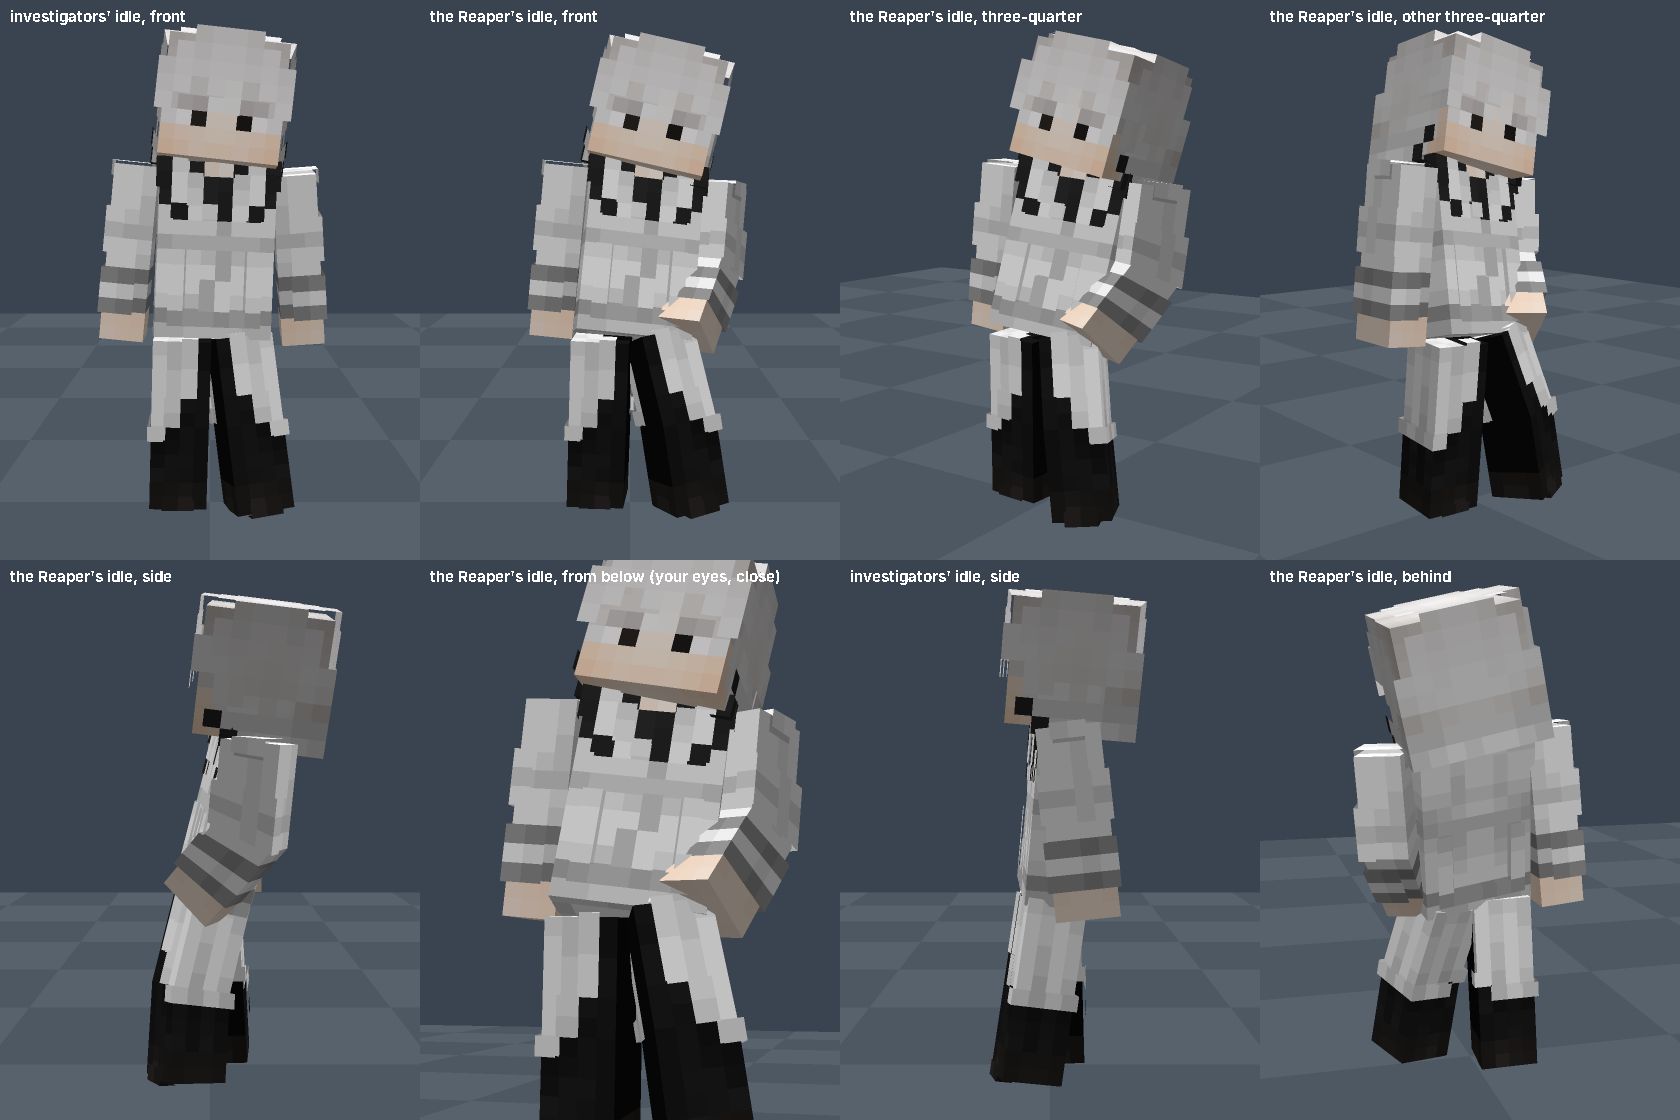
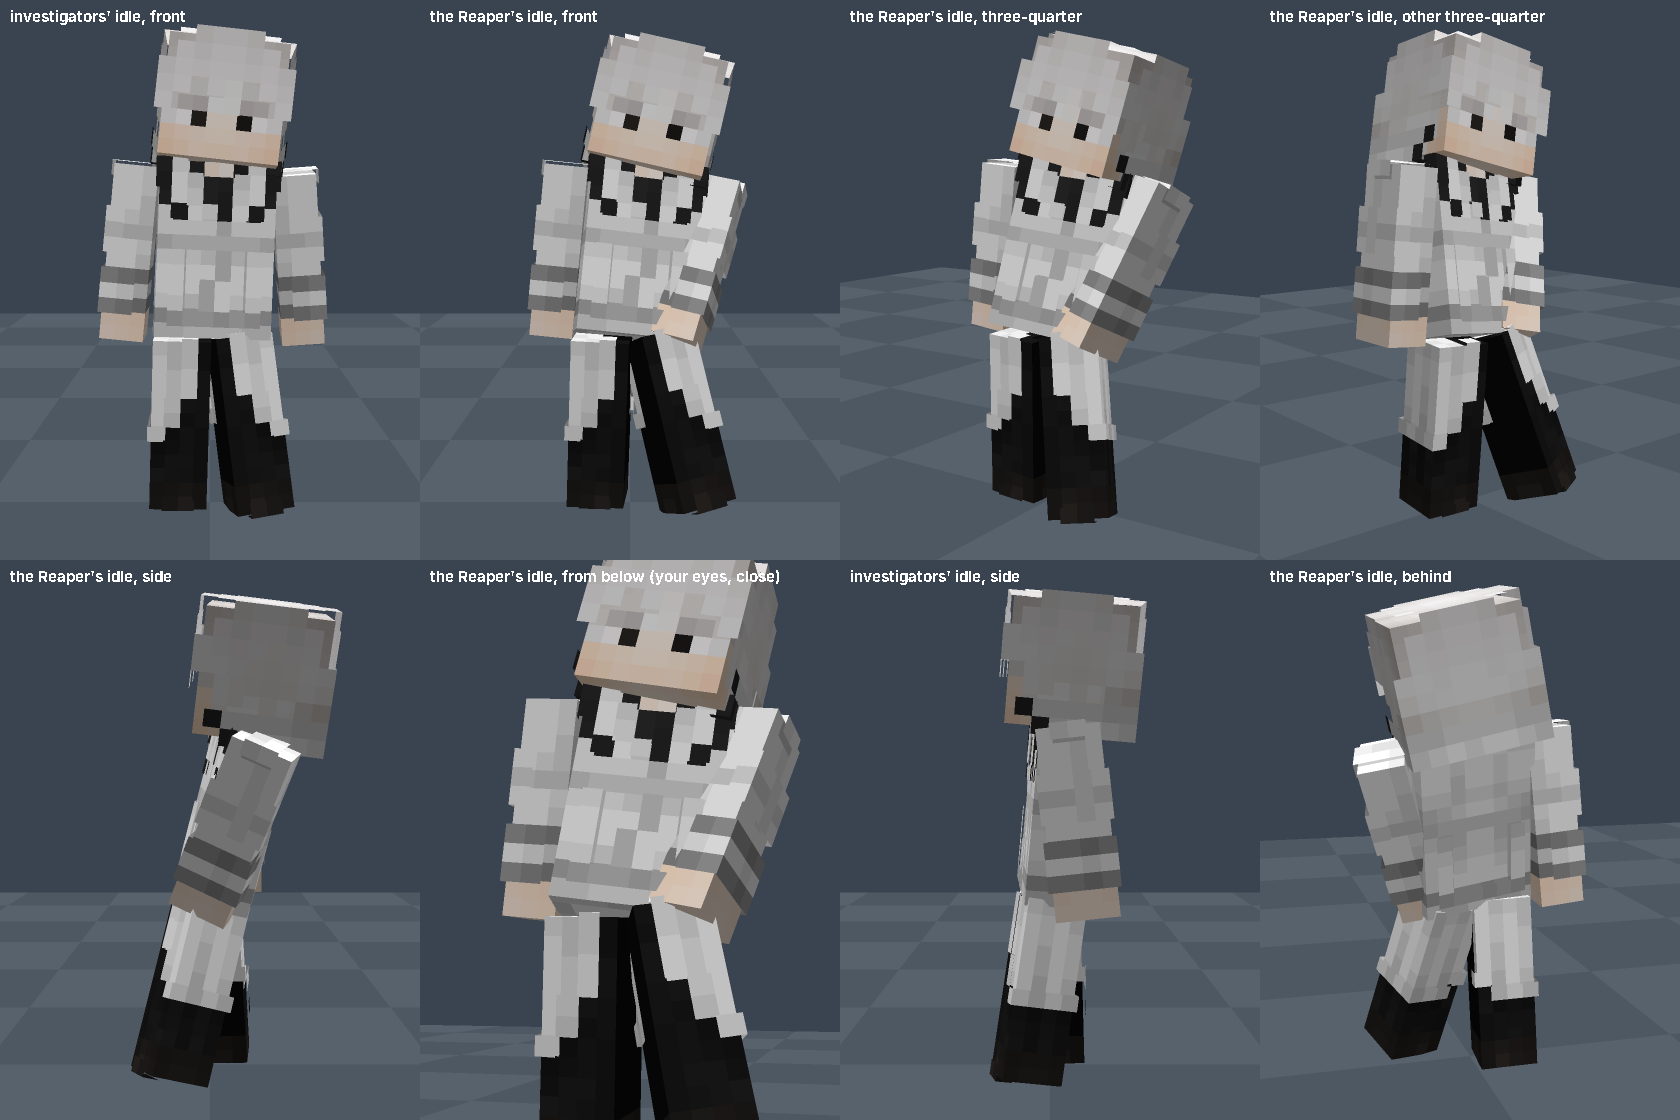
2.0.44: the Reaper's pocket hand on a straight arm
Investigators are drawn on vanilla's player model, which bends no
elbow, so 2.0.43's bent pocket arm would have hung off at an angle in
game. The arm is re-solved straight, in to his hip, the hand sunk in
the pocket; the preview now renders without bends as the game does.

Claude-Session: https://claude.ai/code/session_018kcYHEUs5aWmNhSw3LBkTs

diff --git a/src/main/java/com/hex/kagune/control/client/animation/AgentPose.java b/src/main/java/com/hex/kagune/control/client/animation/AgentPose.java
@@ -385,21 +385,20 @@ public final class AgentPose {
         p.headZ += 0.14F * k;
         p.rightShoulderY += -0.12F * (float)breath * k;
         p.leftShoulderY += -0.12F * (float)breath * k;
-        // The legs: his weight sunk on the right, the left loose, out in front and turned out, its knee soft.
+        // The legs: his weight sunk on the right, the left loose, out in front and turned out.
         p.rightLegX = blend(p.rightLegX, 0.06F, k);
         p.rightLegY = blend(p.rightLegY, 0.08F, k);
         p.rightLegZ = blend(p.rightLegZ, 0.04F, k);
         p.leftLegX = blend(p.leftLegX, -0.26F, k);
         p.leftLegY = blend(p.leftLegY, -0.42F, k);
         p.leftLegZ = blend(p.leftLegZ, -0.13F, k);
-        p.leftKnee = blend(p.leftKnee, 0.2F, k);
         p.legHold = Math.max(p.legHold, k);
-        // The free hand in his pocket (solved through the game's transforms, tools/ArmSolve's way): the elbow out and back, the forearm
-        // in and forward to the front of his hip, the hand sunk in the pocket. Its lean and tip taken out, so it stays there.
-        p.leftArmX = blend(p.leftArmX, -0.058F - p.lean, k);
-        p.leftArmY = blend(p.leftArmY, 0.596F, k);
-        p.leftArmZ = blend(p.leftArmZ, 0.173F - p.side, k);
-        p.leftElbow = blend(p.leftElbow, 0.623F, k);
+        // The free hand in his pocket (solved through the game's transforms, tools/ArmSolve's way, on an investigator's straight arms:
+        // vanilla's player model bends no elbow): the arm in to his hip, its hand sunk in the pocket at its side. Its lean and tip
+        // taken out, so it stays there.
+        p.leftArmX = blend(p.leftArmX, -0.327F - p.lean, k);
+        p.leftArmY = blend(p.leftArmY, 0.392F, k);
+        p.leftArmZ = blend(p.leftArmZ, 0.284F - p.side, k);
         p.leftArmHold = Math.max(p.leftArmHold, k);
     }
 

diff --git a/src/test/java/com/hex/kagune/control/AgentTests.java b/src/test/java/com/hex/kagune/control/AgentTests.java
@@ -485,9 +485,10 @@ public final class AgentTests {
             check(reaper.lean < other.lean - 0.1F && reaper.lean > -0.35F, "he leans back further than any investigator (" + age + ")");
             check(reaper.side > other.side && reaper.twist < other.twist, "his hip cocked, his chest turned open");
             check(reaper.headY == 0.0F && reaper.headX > 0.0F && reaper.headX < -reaper.lean, "no glancing about; his chin a touch up");
-            check(reaper.legHold == 1.0F && reaper.leftArmHold == 1.0F && reaper.leftKnee > 0.0F && reaper.leftLegX < -0.2F,
+            check(reaper.legHold == 1.0F && reaper.leftArmHold == 1.0F && reaper.leftLegX < -0.2F && reaper.leftLegY < -0.3F,
                 "his weight on his right leg, the left loose in front");
-            check(reaper.leftElbow > 0.4F && reaper.leftArmY > 0.3F, "his free hand bent in to his pocket");
+            check(reaper.leftElbow == 0.0F && reaper.leftKnee == 0.0F && reaper.leftArmY > 0.3F && reaper.leftArmZ + reaper.side > 0.2F,
+                "his free arm straight in to his pocket (an investigator's model bends no elbow)");
         }
         check(maxLean - minLean > 0.005F && maxLean - minLean < 0.02F, "a slow breath, hardly moving: " + (maxLean - minLean));
         RigPose none = new RigPose();

diff --git a/patch/KagunePatch.java b/patch/KagunePatch.java
@@ -40,7 +40,7 @@ public final class KagunePatch implements Opcodes {
     private static final String COOLDOWN = "slingshotCooldownUntil";
     /** 3.0.0: the grapple's flight onto the grabbed block. */
     static final String SLINGSHOT = "com/hex/kagune/control/server/RinkakuSlingshot";
-    static final String VERSION = "2.0.43";
+    static final String VERSION = "2.0.44";
     private static final String PLAYER = "net/minecraft/server/level/ServerPlayer";
     private static final String VECTOR = "net/minecraft/world/phys/Vec3";
     // 1.1.0 kagune control expansion hooks

diff --git a/tools/ReaperPreview.java b/tools/ReaperPreview.java
@@ -18,6 +18,7 @@ public final class ReaperPreview {
     public static void main(String[] args) throws Exception {
         PoseRender.skin = ImageIO.read(new File(args[0]));
         PoseRender.slim = true;
+        PoseRender.stiff = true; // an investigator is a mob on vanilla's player model: no elbows or knees bend
         File out = new File(args[1]);
         record Shot(String label, boolean reaper, double yaw, double pitch) {
         }

diff --git a/build.py b/build.py
@@ -24,7 +24,7 @@ import sys
 import zipfile
 
 ROOT = Path(__file__).resolve().parent
-VERSION = "2.0.43"
+VERSION = "2.0.44"
 INPUT = ROOT / "input" / "hexkagune-1.0.0.jar"
 BUILD = Path(os.environ.get("HEXKAGUNE_BUILD_DIR", ROOT / "build"))
 OUTPUT = BUILD / f"hexkagune-{VERSION}.jar"

diff --git a/README.md b/README.md
@@ -9,6 +9,10 @@ Mixins), and every existing kagune system (forms, mutations, rendering, grapple/
 autonomy, projectile deflection, particles, sounds, saves, networking) keeps working as before.
 
 
+## 2.0.44 (HexGhoul): the Reaper's pocket hand on a straight arm (testing)
+
+See `.github/release-notes-2.0.44.md`. Fix for 2.0.43: the White Reaper's free hand now actually goes into his pocket in game. Investigators are drawn on vanilla's player model, which doesn't bend elbows or knees, but 2.0.43's pocket arm relied on a bent elbow, so in game it would have hung off at an angle. The arm is now solved for a straight arm: angled in to his hip, the hand sunk into the pocket at its front.
+
 ## 2.0.43 (HexGhoul): the White Reaper at ease (testing)
 
 See `.github/release-notes-2.0.43.md`. The White Reaper has his own idle when he stands around with his case shut, in place of the regular investigators' one. He leans well back from the hips with his hip cocked and his weight sunk on the leg that holds the case. His other leg is loose, out in front and turned out. His chest is turned open, his head cocked with his chin a touch up so he looks down at you, and his free hand is in his coat pocket. It's a pose: only a slow breath, and no glancing about.

diff --git a/docs/handoff/companions-handoff.md b/docs/handoff/companions-handoff.md
@@ -1,4 +1,10 @@
-# START HERE (state after 2.0.43)
+# START HERE (state after 2.0.44)
+
+Fix for 2.0.43: the White Reaper's free hand now actually goes into his pocket in game. Investigators are drawn on vanilla's player model, which doesn't bend elbows or knees, but 2.0.43's pocket arm relied on a bent elbow, so in game it would have hung off at an angle. The arm is now solved for a straight arm: angled in to his hip, the hand sunk into the pocket at its front.
+
+- `AgentPose.reaperIdle`: the pocket arm re-solved through the game's transforms with no elbow; the unused knee bend is dropped. `tools/ReaperPreview.java` now renders as an investigator is drawn (no bends), and `docs/handoff/reaper-idle-2.0.43.png` is re-rendered that way. Protocol stays 78.
+
+# State after 2.0.43
 
 The White Reaper has his own idle when he stands around with his case shut, in place of the regular investigators' one. He leans well back from the hips with his hip cocked and his weight sunk on the leg that holds the case. His other leg is loose, out in front and turned out. His chest is turned open, his head cocked with his chin a touch up so he looks down at you, and his free hand is in his coat pocket. It's a pose: only a slow breath, and no glancing about.
 

diff --git a/.github/release-notes-2.0.44.md b/.github/release-notes-2.0.44.md
@@ -1,0 +1,7 @@
+## 2.0.44 (HexGhoul): the Reaper's pocket hand on a straight arm
+
+HexKagune 2.0.44 for Forge 1.20.1. Install matching versions on client and server. Not tested in game.
+
+Fix for 2.0.43: the White Reaper's free hand now actually goes into his pocket in game. Investigators are drawn on vanilla's player model, which doesn't bend elbows or knees, but 2.0.43's pocket arm relied on a bent elbow, so in game it would have hung off at an angle. The arm is now solved for a straight arm: angled in to his hip, the hand sunk into the pocket at its front.
+
+- `AgentPose.reaperIdle`: the pocket arm re-solved through the game's transforms with no elbow; the unused knee bend is dropped. `tools/ReaperPreview.java` now renders as an investigator is drawn (no bends), and `docs/handoff/reaper-idle-2.0.43.png` is re-rendered that way. Protocol stays 78.
